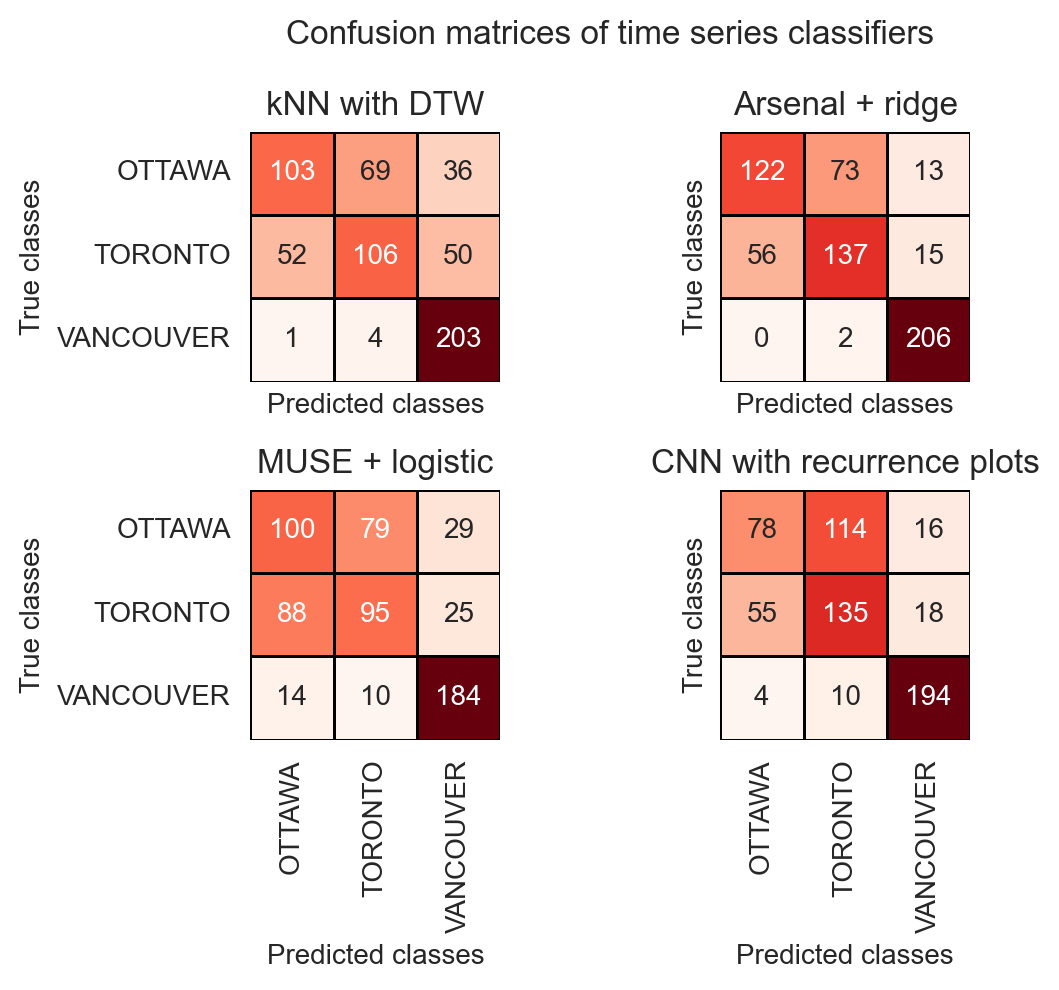
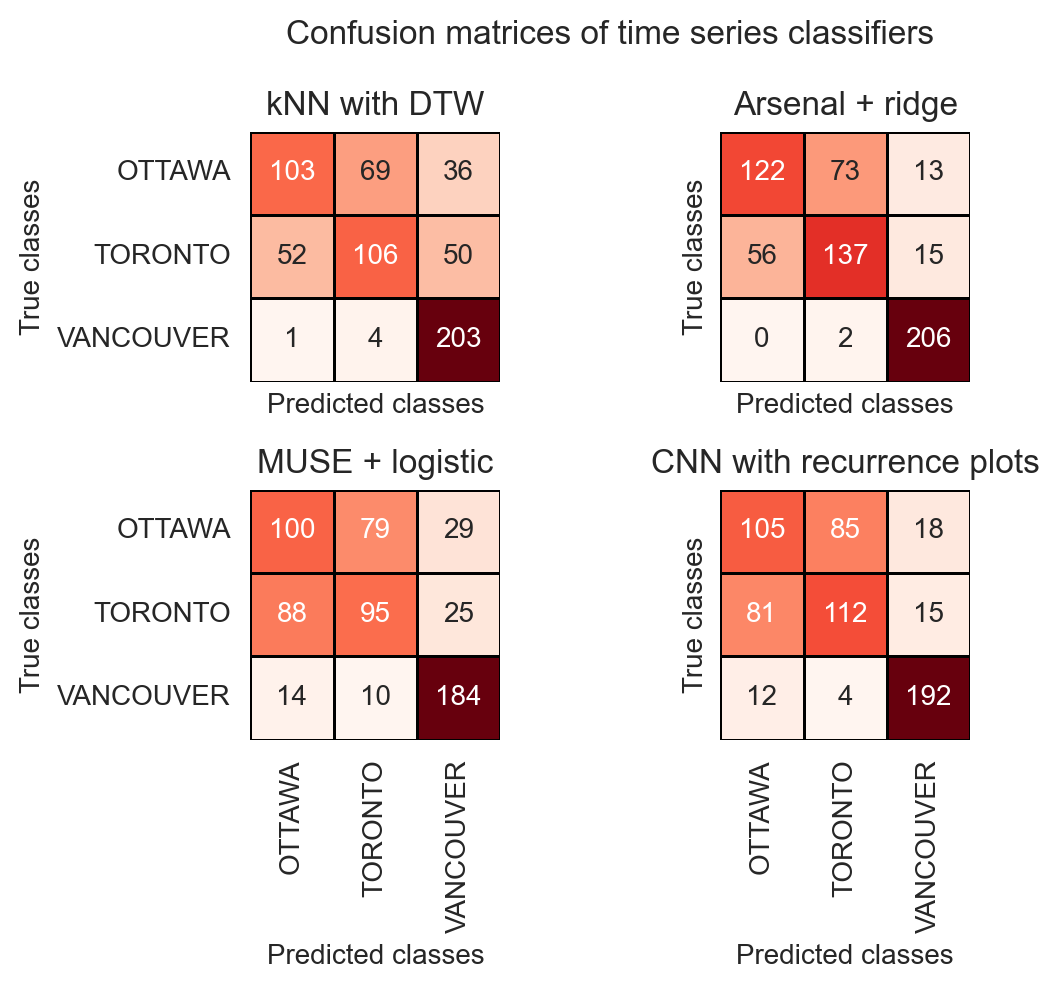
Update classification report with NiN CNN

diff --git a/ReportClassification.md b/ReportClassification.md
@@ -659,7 +659,8 @@ print(pd.DataFrame(probs_arsenal, columns = ["Ottawa", "Toronto", "Vancouver"]))
     [624 rows x 3 columns]
 
 A single `RocketClassifier` does not yield probabilistic predictions,
-but an `Arsenal` ensemble does.
+but an `Arsenal` ensemble does, even though they are derived from the
+average of 25 binary predictions.
 
 ### MUSE
 
@@ -790,15 +791,22 @@ into half, while roughly doubling the channel size.
     for a detailed breakdown of some modern CNN architectures, which
     were referenced while designing the network for this problem.
 
+  - The CNN used in this report mostly resembles the [Network in
+    Network](https://arxiv.org/abs/1312.4400) (NiN) architecture, which
+    avoids using dense layers at the end. Instead, there are two 1x1
+    convolutions after each “main” convolution layer. These induce local
+    non-linearities while avoiding large & computationally expensive
+    dense layers in the network.
+
 #### Data prep
 
 Below are the additional data preparation steps needed to train our CNN
-model with Lightning. One advantage of CNNs is relatively fewer number
-of hyperparameters to optimize. In this case, I only tuned the learning
-rate & learning rate decay with Optuna. Here we’ll load the best tune
-previously saved, [see
+model with Lightning. One advantage of CNNs over most other NNs is
+relatively fewer number of hyperparameters to optimize. In this case, I
+only tuned the learning rate & learning rate decay with Optuna. Here
+we’ll load the best tune previously saved, [see
 here](https://github.com/AhmetZamanis/WeatherAnomalyDetectionClassification/blob/main/ScriptsClassification/2.4_CNN.py)
-for the code used.
+for the code used for hyperparameter tuning.
 
 <details>
 <summary>Show code to prepare data for CNN training</summary>
@@ -880,17 +888,17 @@ print(pd.DataFrame(probs_cnn, columns = ["Ottawa", "Toronto", "Vancouver"]))
 
     CNN classifier predicted probabilities for each city:
          Ottawa  Toronto  Vancouver
-    0    0.4494   0.5506     0.0001
-    1    0.5916   0.4082     0.0002
-    2    0.5497   0.4487     0.0016
-    3    0.6482   0.3122     0.0396
-    4    0.3470   0.5338     0.1192
+    0    0.4491   0.5261     0.0247
+    1    0.7688   0.2198     0.0113
+    2    0.6921   0.2930     0.0149
+    3    0.7281   0.2501     0.0218
+    4    0.6701   0.3141     0.0158
     ..      ...      ...        ...
-    619  0.0125   0.0239     0.9636
-    620  0.0007   0.0005     0.9989
-    621  0.0129   0.0085     0.9786
-    622  0.0013   0.0007     0.9980
-    623  0.0002   0.0002     0.9997
+    619  0.0002   0.0000     0.9998
+    620  0.0001   0.0000     0.9998
+    621  0.0005   0.0000     0.9995
+    622  0.0001   0.0000     0.9999
+    623  0.0000   0.0000     1.0000
 
     [624 rows x 3 columns]
 
@@ -943,7 +951,7 @@ print(pd.DataFrame(dict_metrics, index = [
     MultiRocket      0.6667   12.0146
     Arsenal          0.7452    0.8516
     MUSE             0.6074    1.1958
-    CNN              0.6522    0.6695
+    CNN              0.6554    0.7633
 
 We see the Arsenal method performs considerably better than the others
 in accuracy, and even a single MultiRocket + Ridge model comes second.
@@ -955,7 +963,7 @@ in accuracy, and even a single MultiRocket + Ridge model comes second.
   methods, and all methods are a huge improvement over random chance.
 
 When it comes to the quality of probability predictions, we have a
-different story, as CNN has the best log loss value by far, followed by
+different story, as CNN has the best log loss value, followed by
 Arsenal.
 
 - MUSE performs slightly worse in log loss compared to the random chance
@@ -1038,8 +1046,7 @@ for each class.
   another. Other models mostly confuse Ottawa & Toronto for one another,
   and not for Vancouver.
 
-- Arsenal has the best performance in identifying all cities. It is
-  closely followed by kNN in Vancouver and Ottawa, and CNN in Toronto.
+- Arsenal has the best performance in identifying all cities.
 
 ## Conclusion
 
@@ -1056,9 +1063,10 @@ classification, and the results are subjective.
   class prediction, so we can assess the uncertainty ourselves.
 
 - Still, the Arsenal ensemble also achieved a comparable log loss score,
-  which is very impressive for a fairly simple method. Also keep in mind
-  that we can combine a ROCKET transformation with any classifier in
-  theory, instead of just logistic regression.
+  which is very impressive considering the simple nature of its
+  probability predictions. Also keep in mind that we can combine a
+  ROCKET transformation with any classifier in theory, instead of just
+  logistic regression.
 
 - Personally, I believe in finding the simplest tool that solves a
   problem. In future time series classification problems, ROCKET
